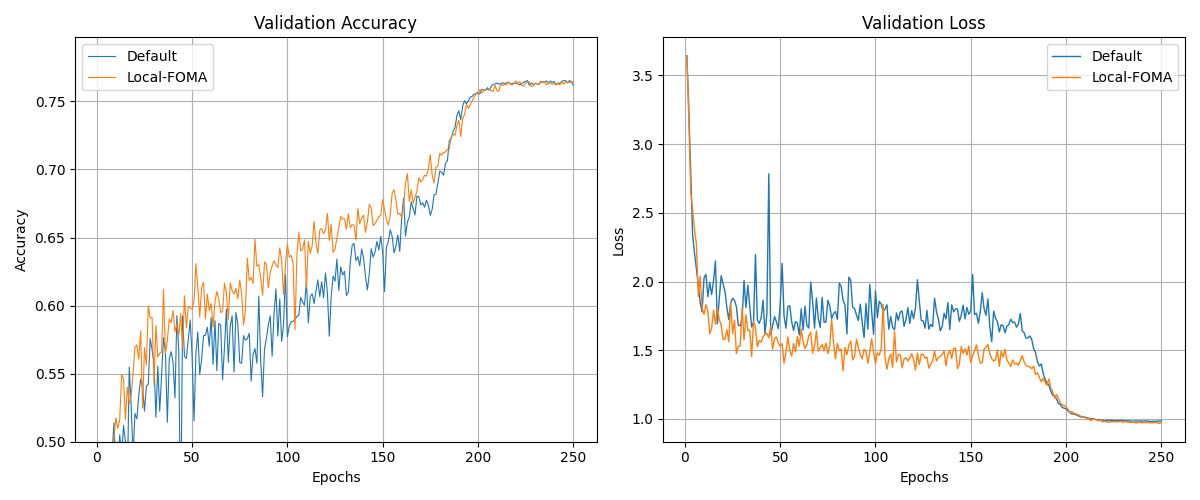
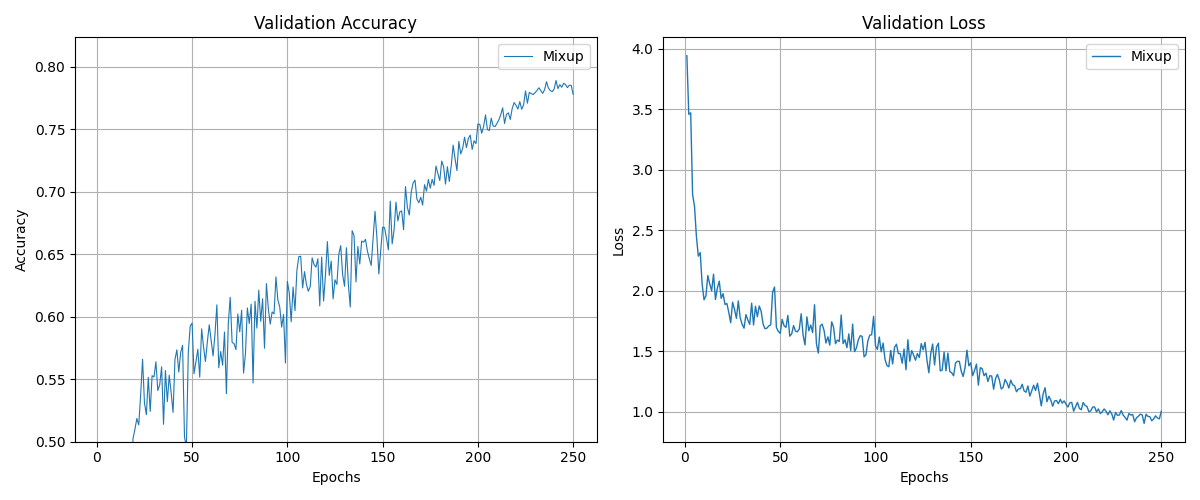
final

diff --git a/result.py b/result.py
@@ -18,14 +18,14 @@ def main():
     model_type = args.model_type
     
     augmentations = [
-        "Default",
-        # "Mixup",
+        # "Default",
+        "Mixup",
         # "Manifold-Mixup",
         # "CutMix",
         # "ResizeMix",
         # "CutMix",
         # "RegMixup",
-        "Local-FOMA",
+        # "Local-FOMA",
         # "Mixup-FOMA2",
         # "ES-Mixup",
         # "Mixup-FOMA",
